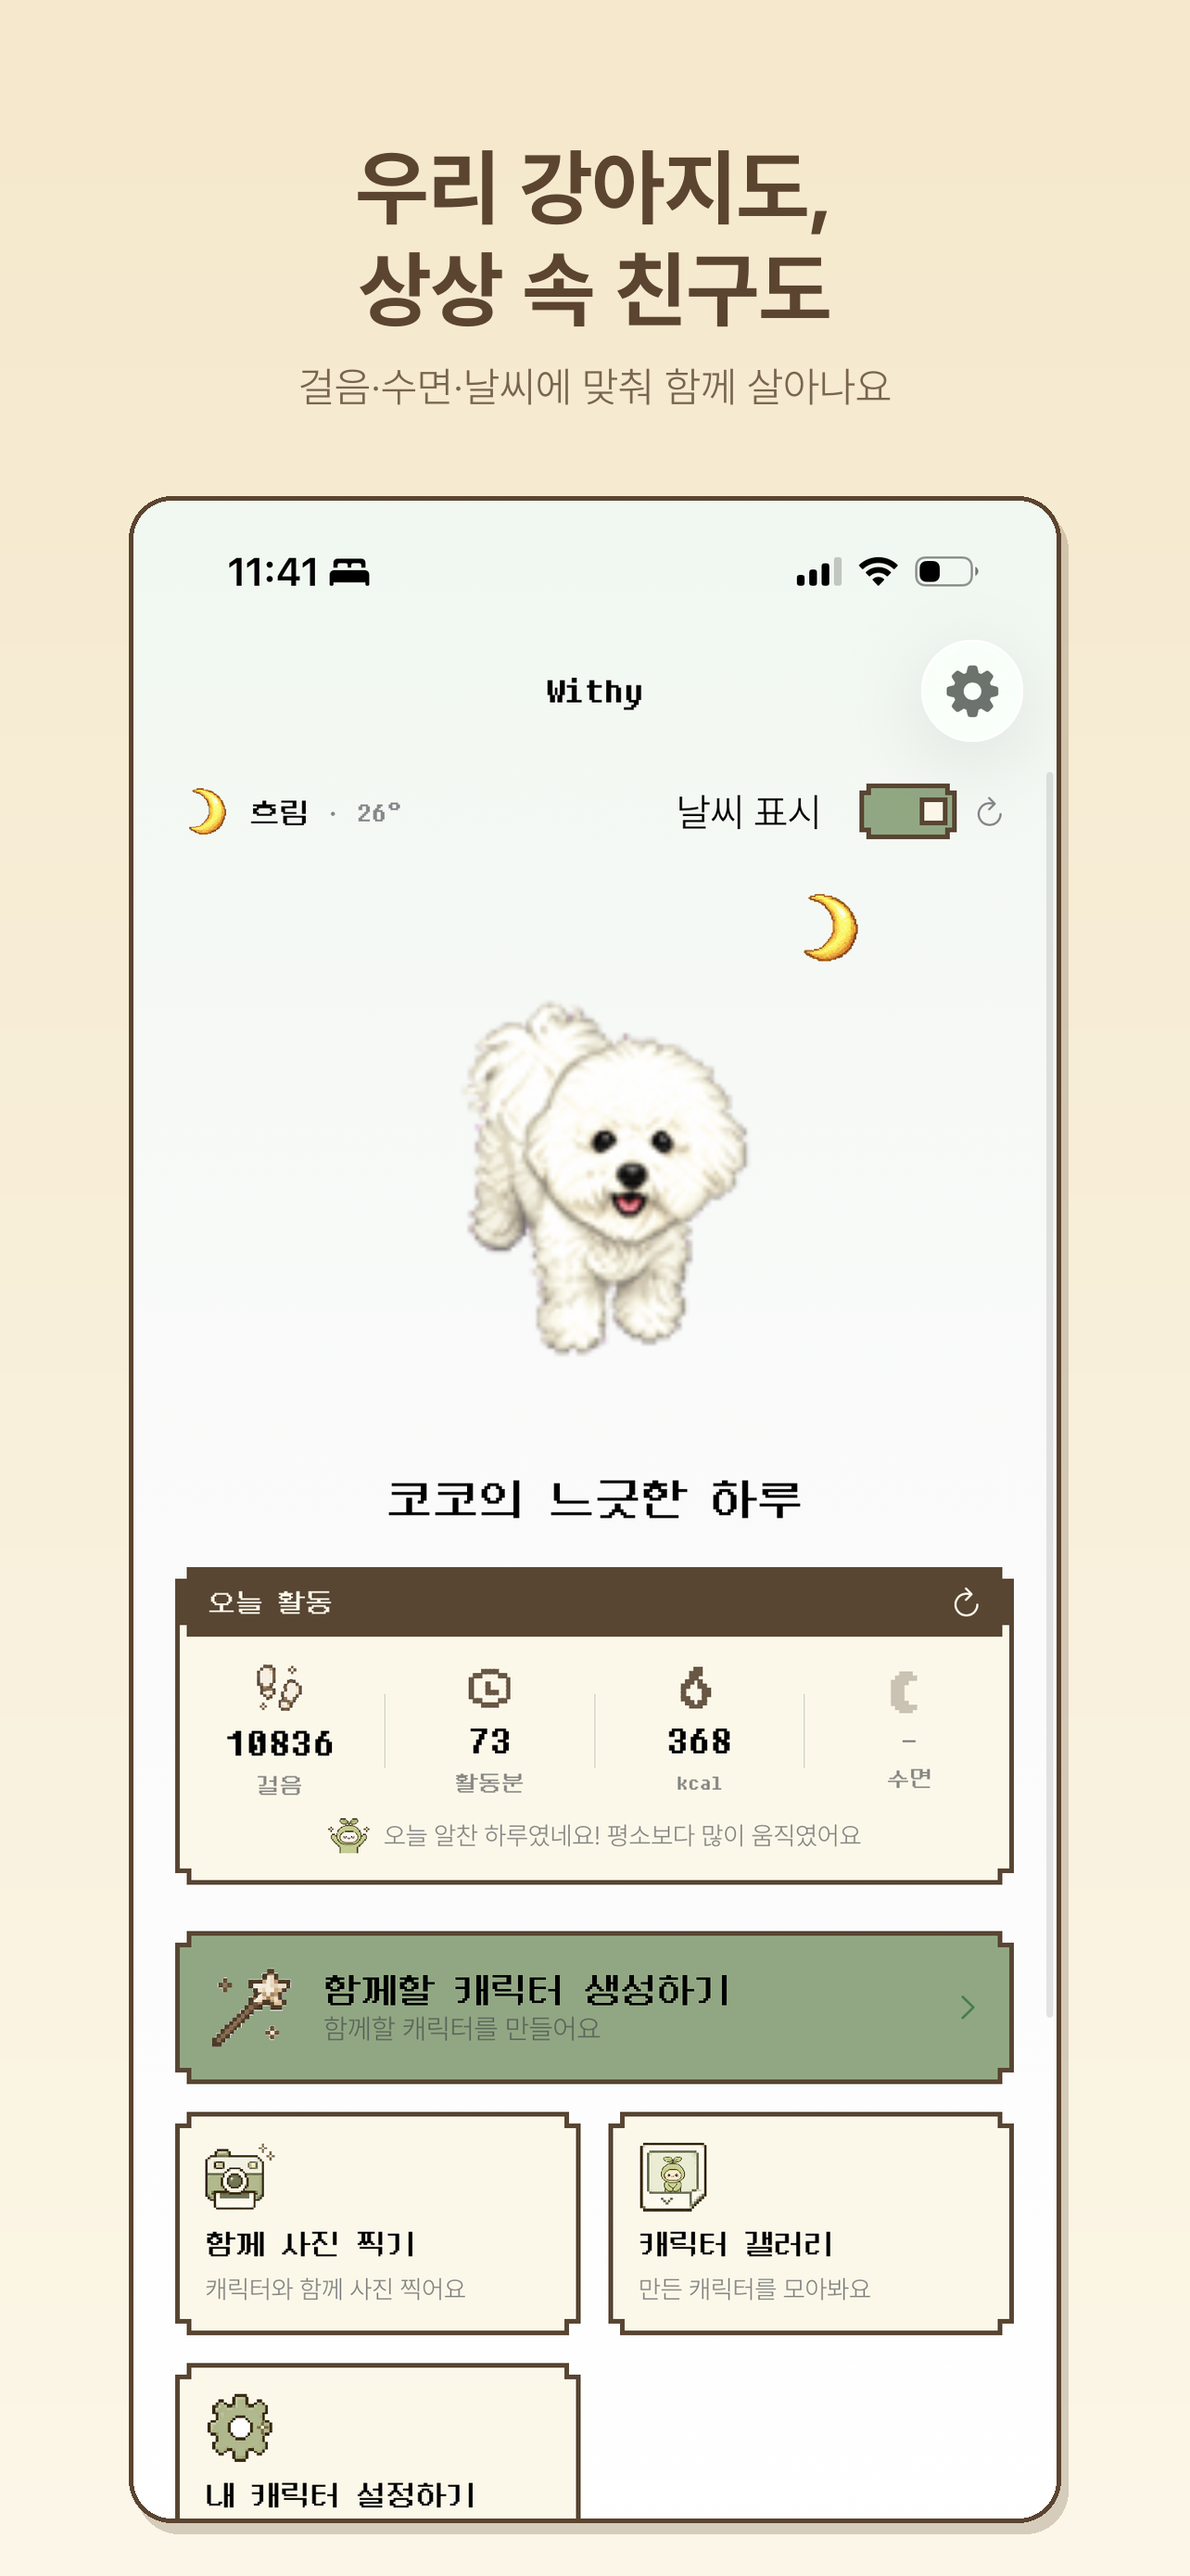
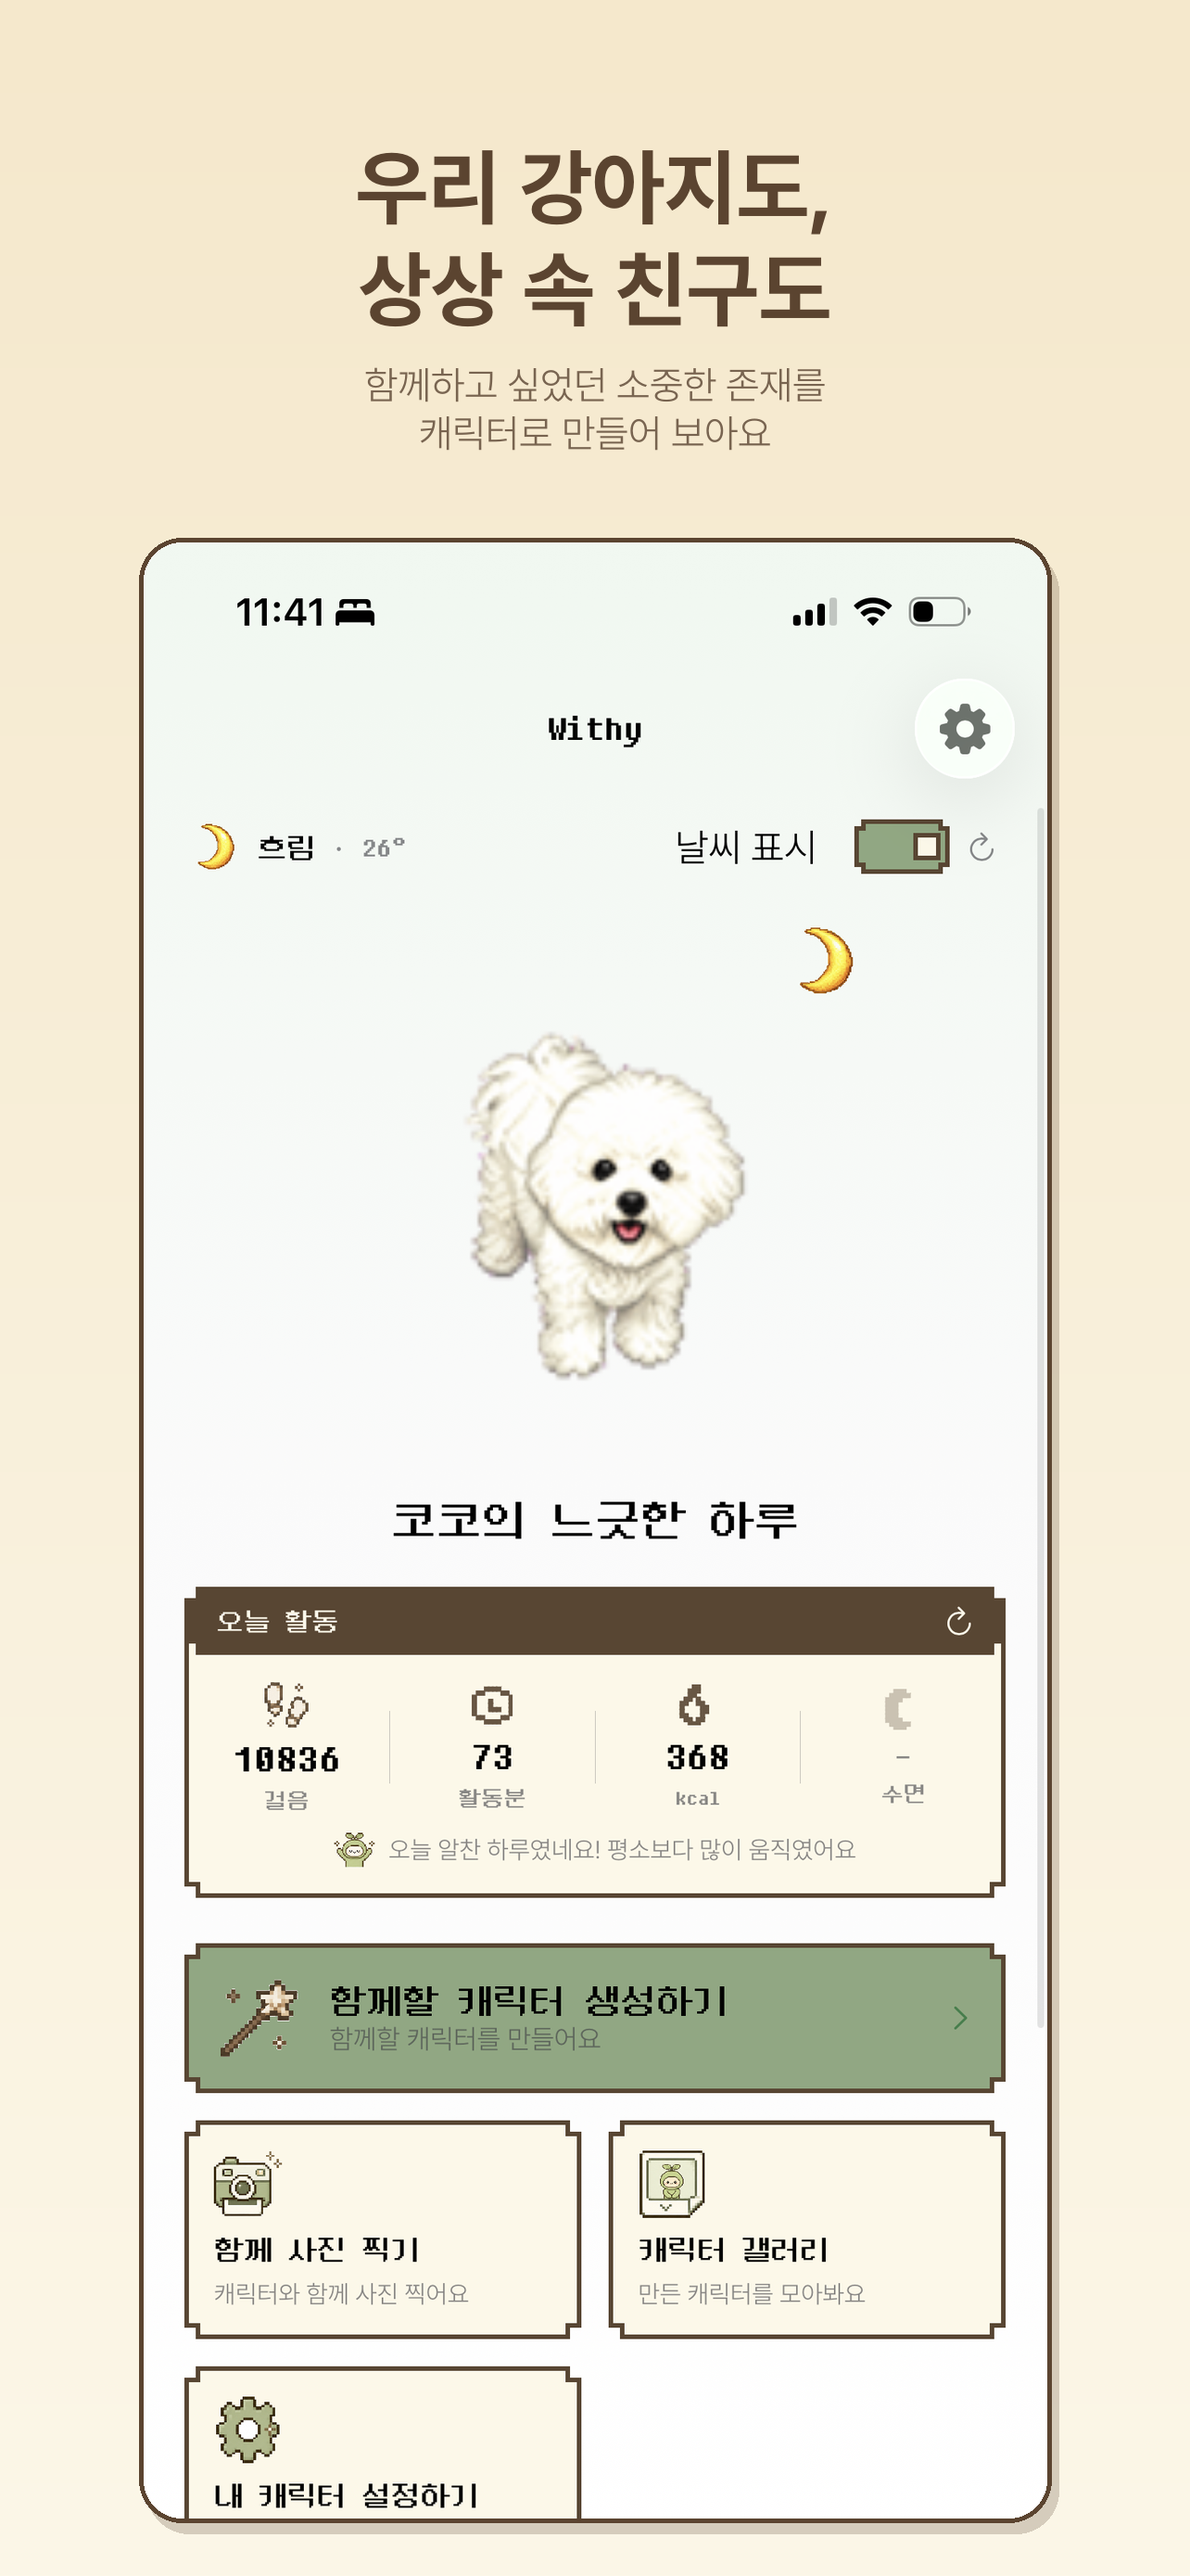
style(ios): 상태 문구 다듬기 + 스크린샷 문구 교체
- 우산 쓰고 비 구경 → 비 구경 / 눈 속에서 신나게 → 눈 놀이 중
- 비 오는데 산책·자전거 → 우중 산책·우중 자전거
- 명사구가 된 비 구경·우중 산책·우중 자전거는 이름 붙이기 허용에 추가
  ('코코의 비 구경', '코코의 우중 산책')
- 스크린샷 01: 부제를 '함께하고 싶었던 소중한 존재를 캐릭터로 만들어 보아요'
- 스크린샷 06: 'AI 없이, 내 사진으로 / 가진 사진을 캐릭터로 바꿔요'

Claude-Session: https://claude.ai/code/session_017Pm38LS5ay4WTNbe8Gm7Vz

diff --git a/withu/Character/CharacterState.swift b/withu/Character/CharacterState.swift
@@ -106,10 +106,10 @@ enum CharacterState: String, Codable, Hashable, CaseIterable {
     /// 명사구만 true — '자고 있어요' · '산책 중' 같은 동사구는 '코코의 산책 중' 처럼 어색해진다.
     var captionAllowsNamePrefix: Bool {
         switch self {
-        case .idle, .energetic, .cloudy,
-             .walkingCloudy, .walkingSnowy,
+        case .idle, .energetic, .cloudy, .rainyShelter,
+             .walkingCloudy, .walkingRainy, .walkingSnowy,
              .runningSunny, .runningCloudy, .runningSnowy,
-             .cyclingSunny, .cyclingCloudy, .cyclingSnowy:
+             .cyclingSunny, .cyclingCloudy, .cyclingRainy, .cyclingSnowy:
             return true
         default:
             return false
@@ -128,11 +128,11 @@ enum CharacterState: String, Codable, Hashable, CaseIterable {
         case .eating:         return String(localized: "맛있게 식사 중")
         case .beach:          return String(localized: "해변에서 일광욕")
         case .cloudy:         return String(localized: "구름 낀 하루")
-        case .rainyShelter:   return String(localized: "우산 쓰고 비 구경")
-        case .snowPlay:       return String(localized: "눈 속에서 신나게")
+        case .rainyShelter:   return String(localized: "비 구경")
+        case .snowPlay:       return String(localized: "눈 놀이 중")
         case .walkingSunny:   return String(localized: "햇살 받으며 산책")
         case .walkingCloudy:  return String(localized: "흐린 날 산책")
-        case .walkingRainy:   return String(localized: "비 오는데 산책")
+        case .walkingRainy:   return String(localized: "우중 산책")
         case .walkingSnowy:   return String(localized: "눈길 산책")
         case .runningSunny:   return String(localized: "햇살 아래 달리기")
         case .runningCloudy:  return String(localized: "흐린 날 달리기")
@@ -140,7 +140,7 @@ enum CharacterState: String, Codable, Hashable, CaseIterable {
         case .runningSnowy:   return String(localized: "눈 속 달리기")
         case .cyclingSunny:   return String(localized: "햇살 자전거")
         case .cyclingCloudy:  return String(localized: "흐린 날 자전거")
-        case .cyclingRainy:   return String(localized: "비 오는데 자전거")
+        case .cyclingRainy:   return String(localized: "우중 자전거")
         case .cyclingSnowy:   return String(localized: "눈 속 자전거")
         }
     }
